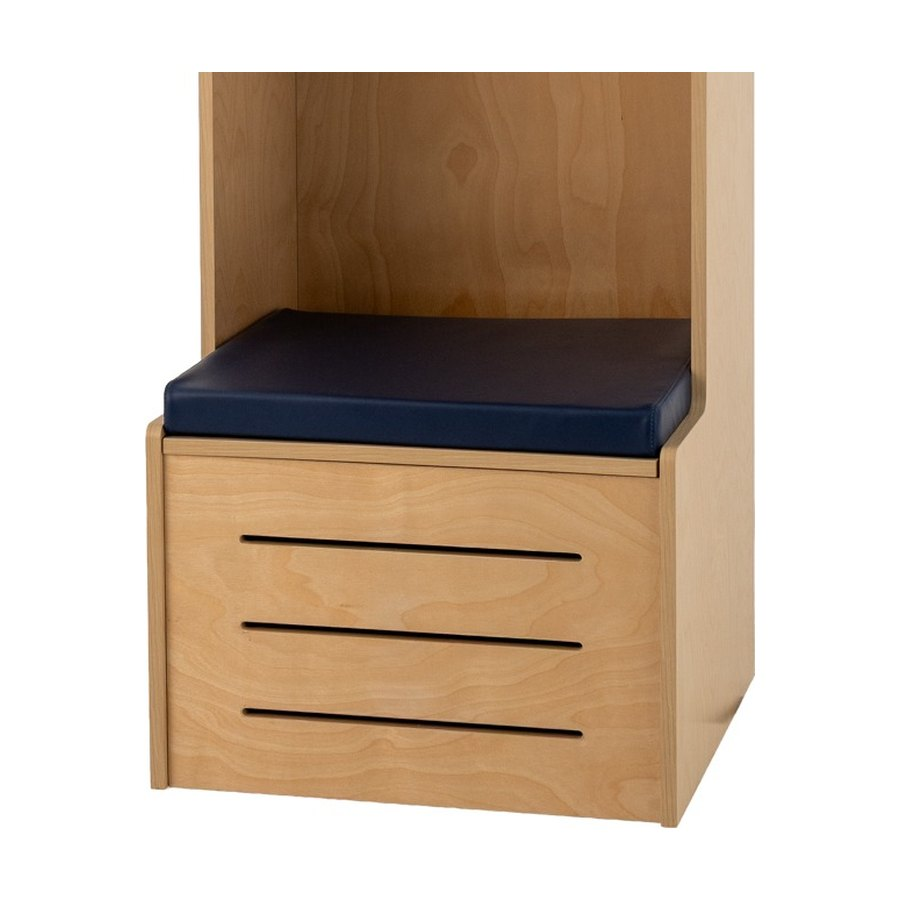
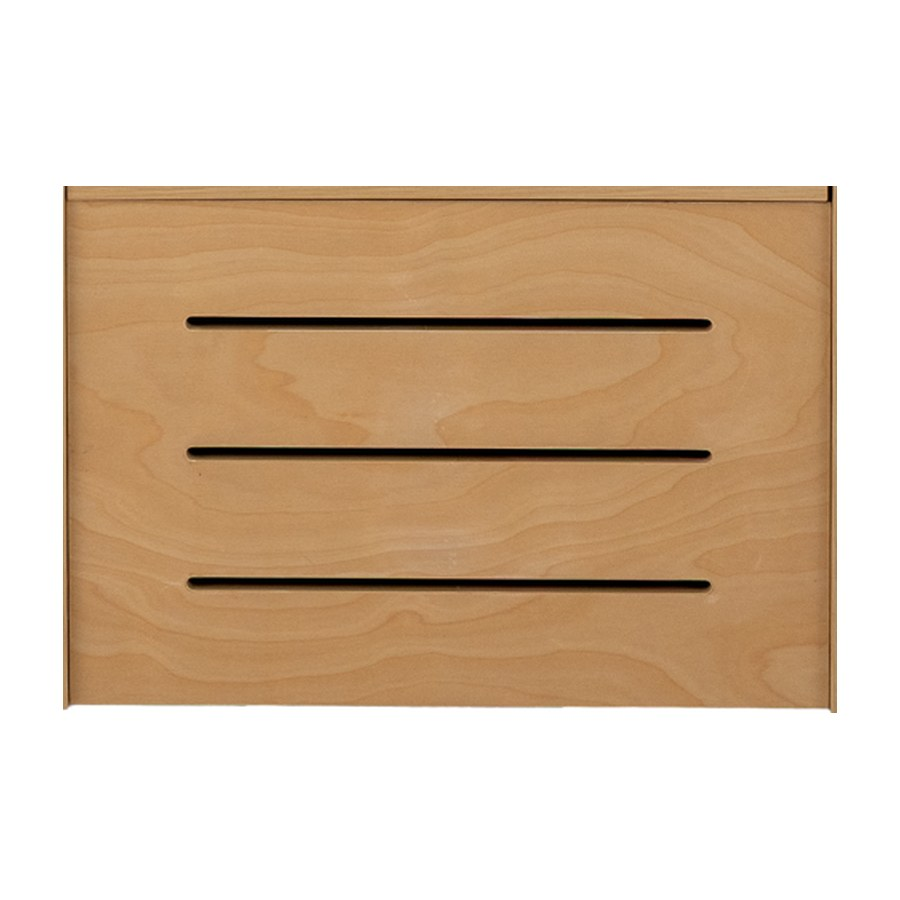
Preview: Vented Front Panels - just metal vented and 3-slot vented, flat front only

diff --git a/src/data/shop-accessories.ts b/src/data/shop-accessories.ts
@@ -35,14 +35,12 @@ export const SHOP_ACCESSORIES_MODAL: ShopAccessoryModalItem[] = [
 	{
 		accImage: '/images/premium/front-panel-metal-vented.jpg',
 		accImage2: '/images/premium/front-panel-3-slot-vented.jpg',
-		accImage3: '/images/premium/front-panel-pull-out-drawer.jpg',
-		accImage4: '/images/premium/front-panel-solid.jpg',
-		accTitle: 'Front Panels',
-		accPrice: 'Solid front: included / 3-slot vented: + $40.00 / Metal vented: + $60.00 / Pull-out drawer: + $50.00',
-		accDesc: 'Choose the bench front for your Premium lockers (Model S, L, X and Z): solid front (standard), 3-slot vented front, black metal vented front, or a pull-out drawer with a metal mesh front. Venting keeps gear dry and reduces odor.',
+		accTitle: 'Vented Front Panels',
+		accPrice: '3-slot vented: + $40.00 / Metal vented: + $60.00',
+		accDesc: 'Vented bench front for Premium lockers (Model S, L, X and Z): a 3-slot vented front, or a black metal vented front. Venting keeps gear dry and reduces odor.',
 		image: '/images/premium/front-panel-metal-vented.jpg',
-		alt: 'Black metal vented front panel on a walnut locker bench',
-		title: 'Front Panels',
+		alt: 'Black metal vented front panel on a walnut locker',
+		title: 'Vented Front Panels',
 	},
 	{
 		accImage: CUSHION_FRONT,
